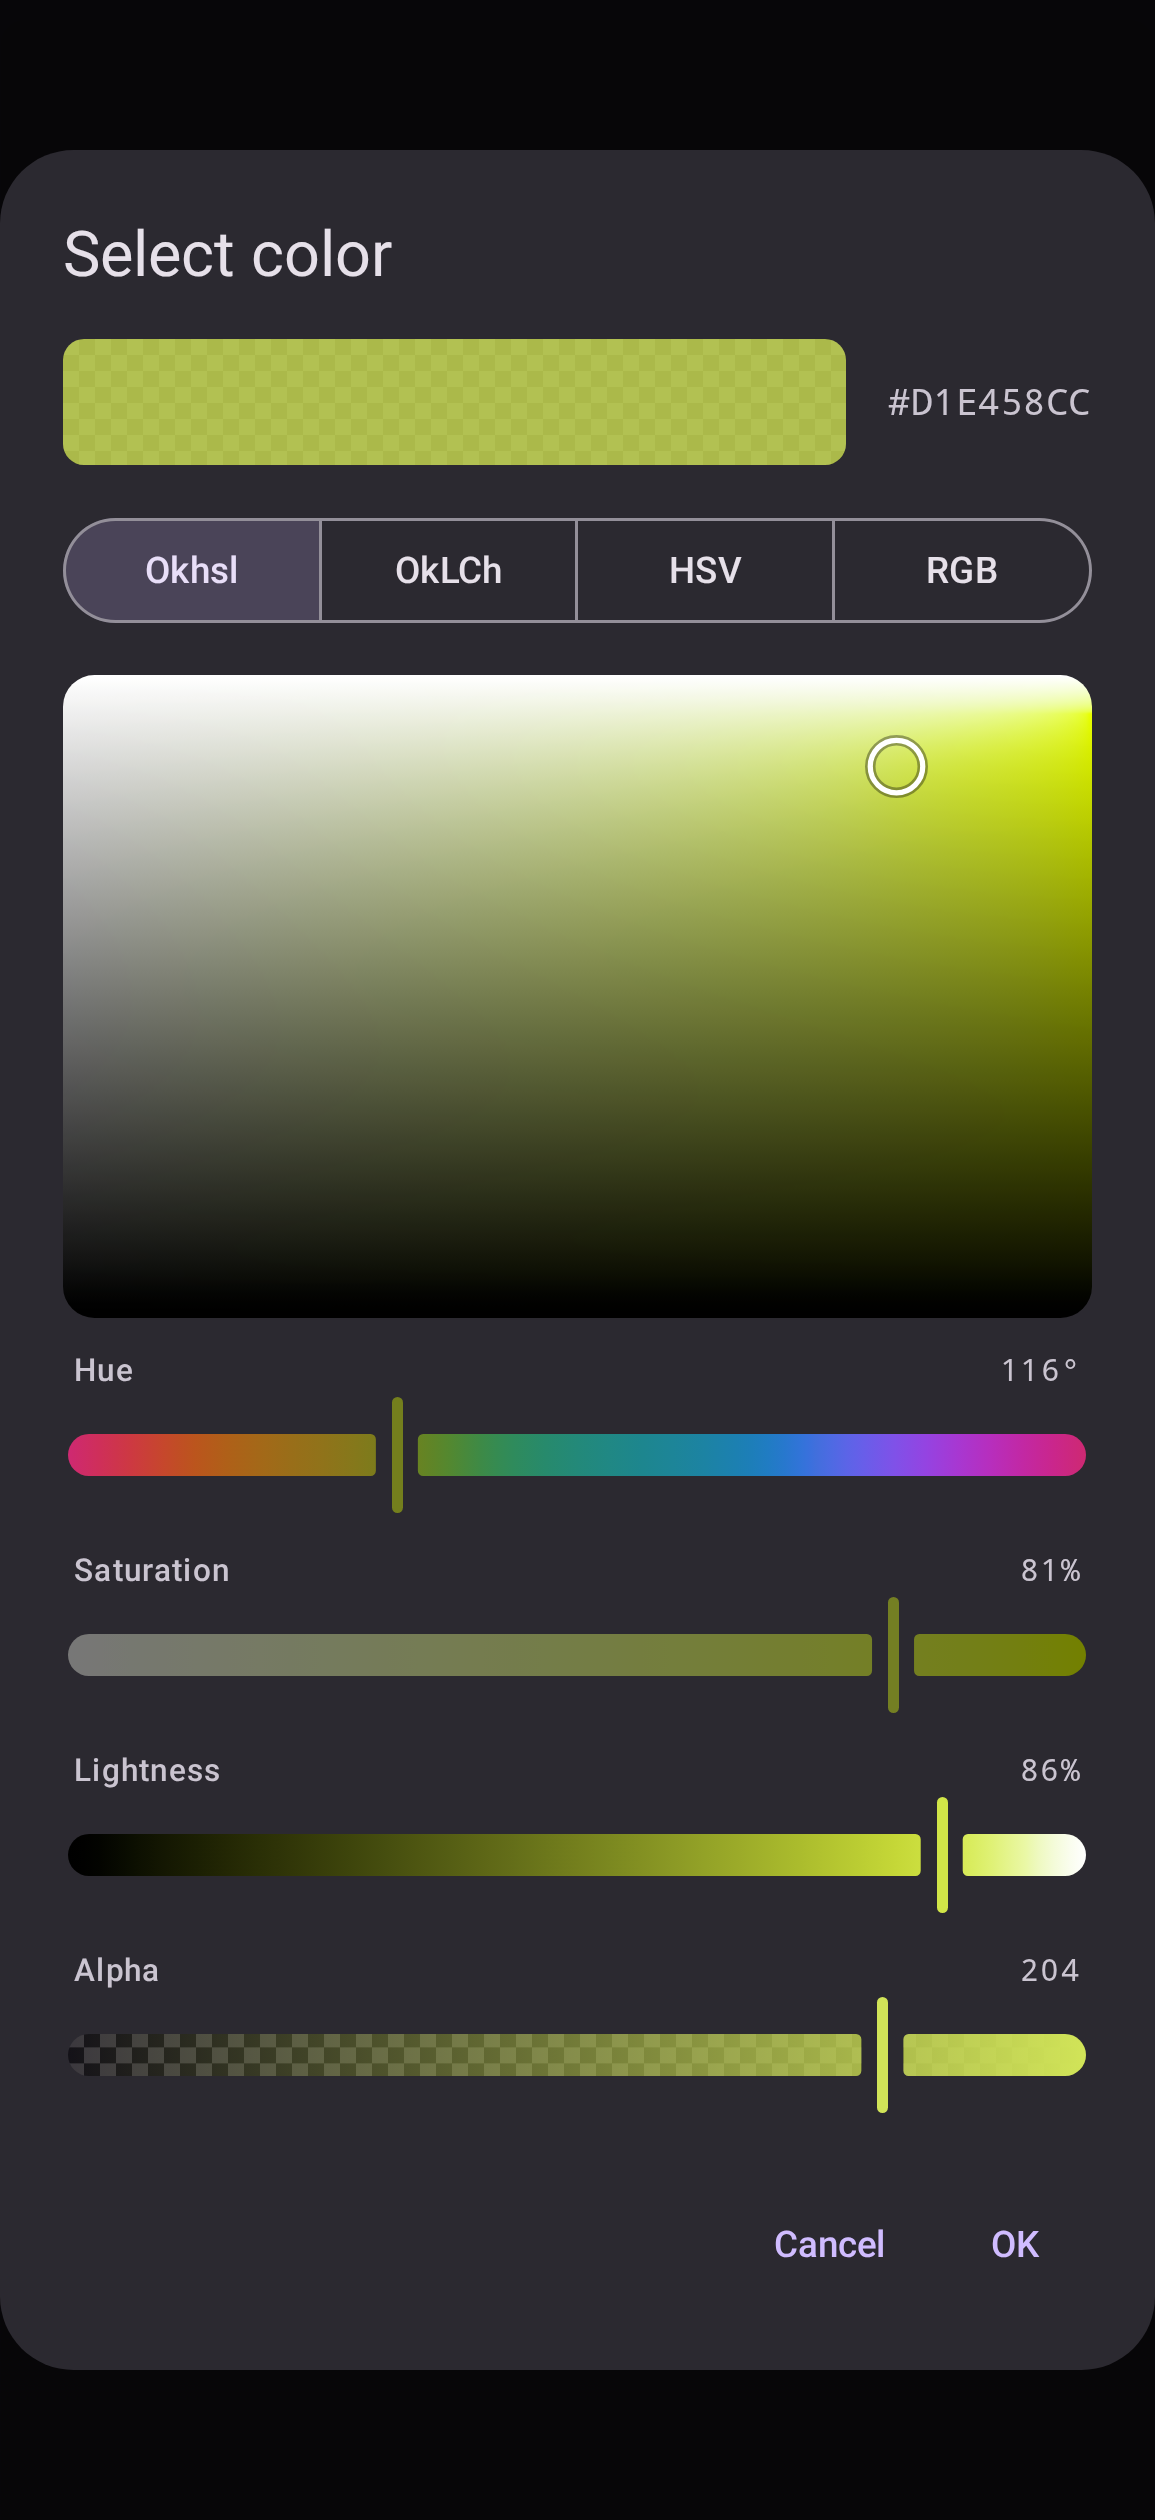
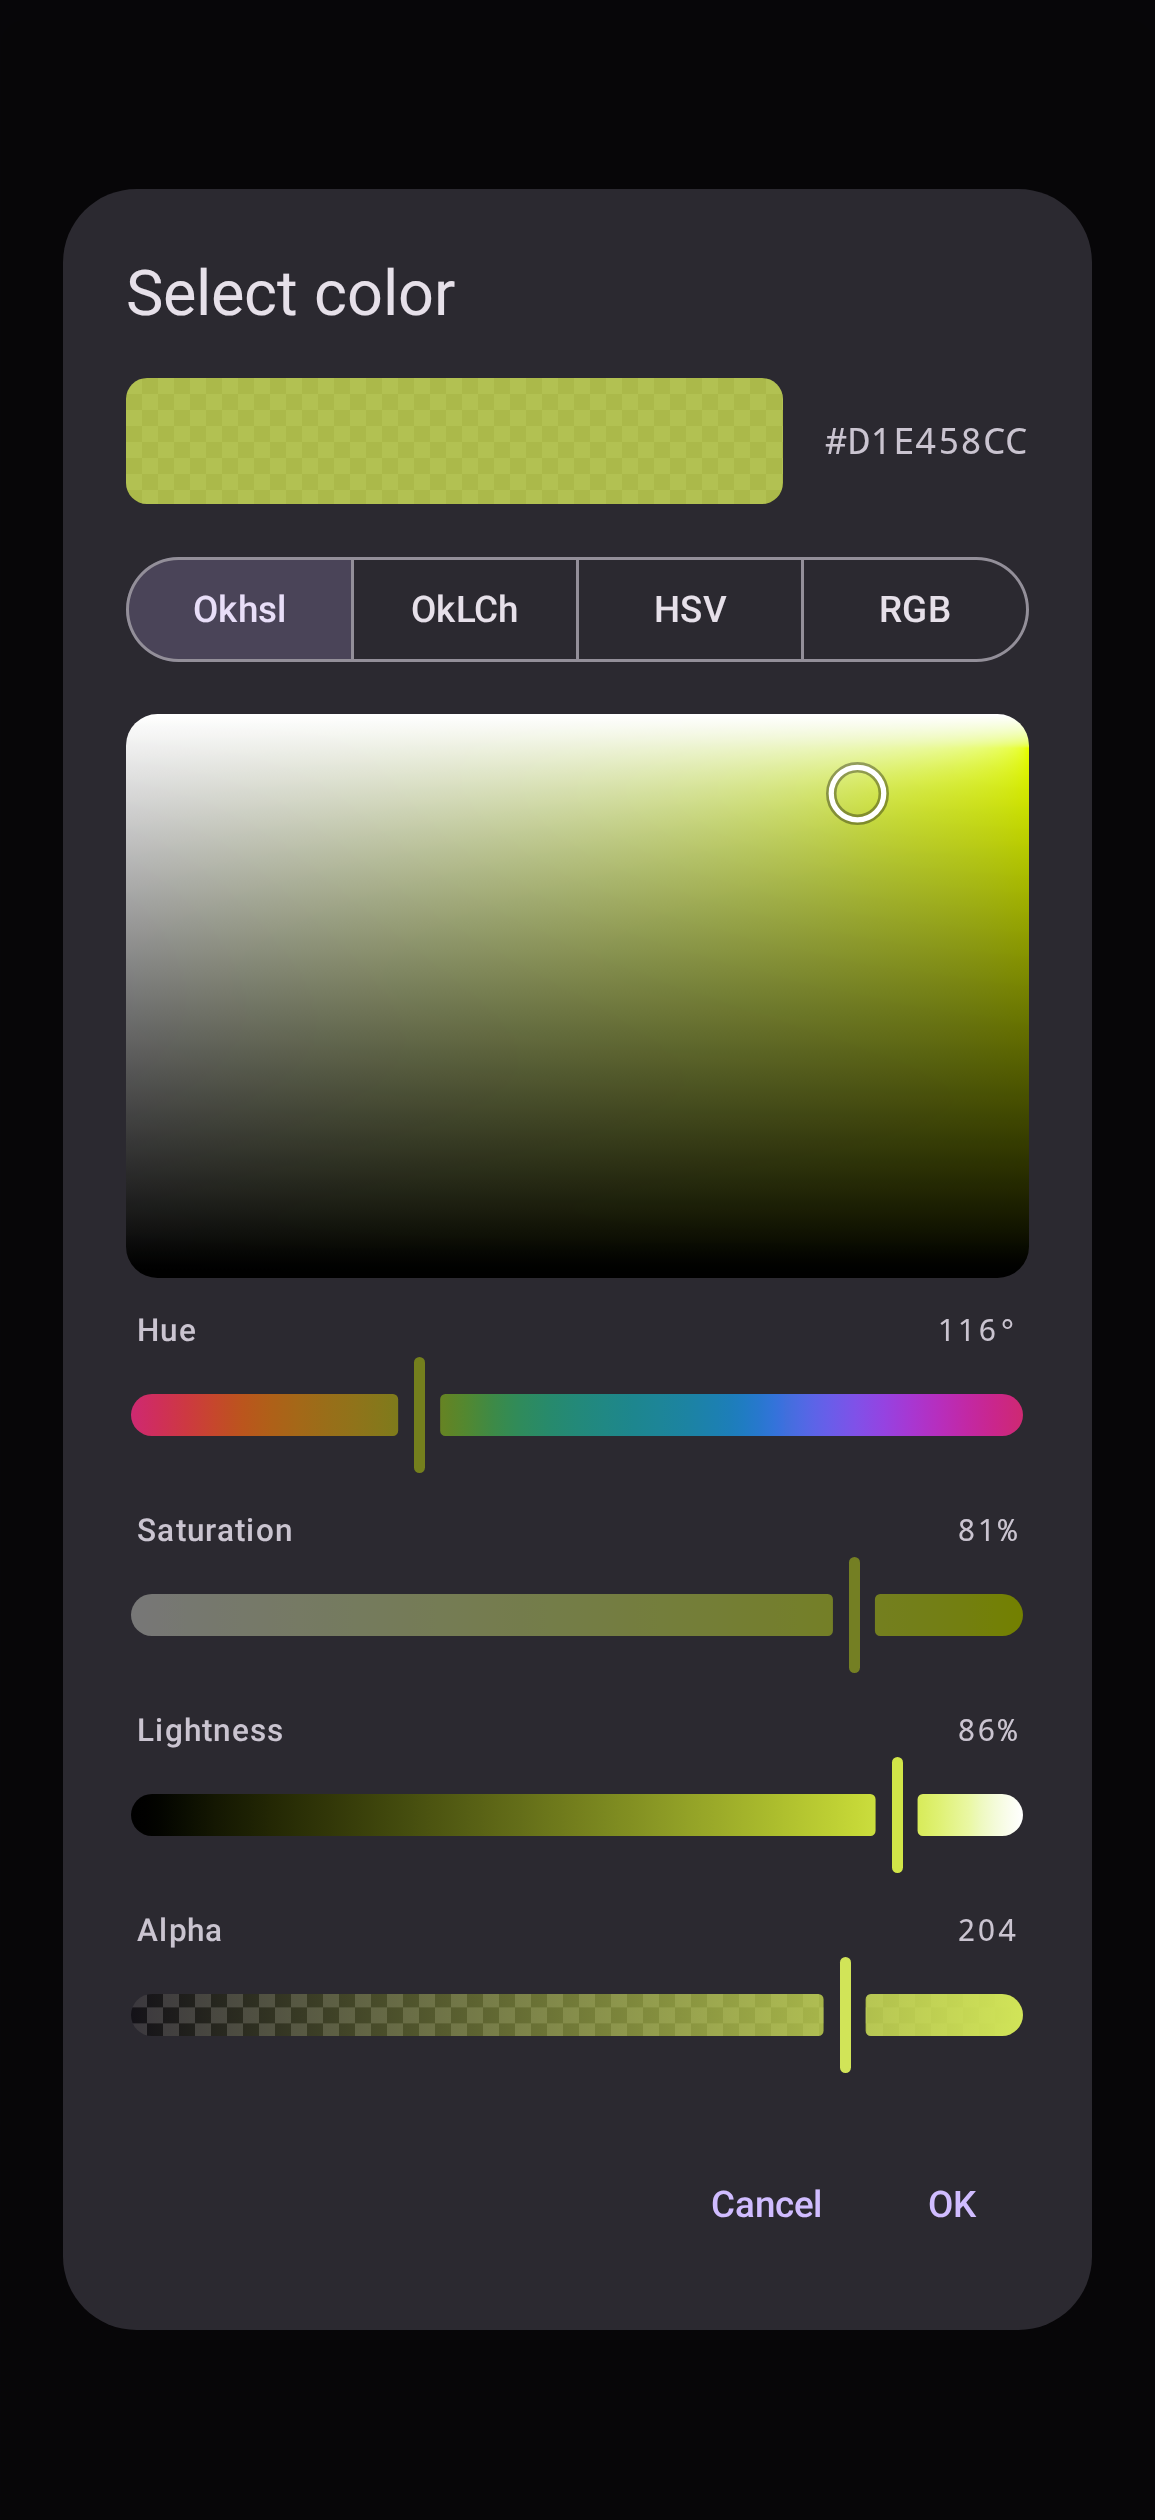
Give the portrait dialog screenshot a phone's margins
The preview's dialog window runs edge to edge, so the screenshot showed the dialog touching both sides of the screen, and GitHub drew the portrait image across the whole README column. The preview insets the dialog 24 dp a side, as a phone's dialog window does, and the README and the docs page show it 360 px wide.

diff --git a/screenshot-tests/src/screenshotTest/kotlin/codes/side/colorpicker/screenshot/ColorPickerPreviews.kt b/screenshot-tests/src/screenshotTest/kotlin/codes/side/colorpicker/screenshot/ColorPickerPreviews.kt
@@ -279,11 +279,18 @@ fun OkhsvPlanePreview() = Frame {
     ChannelSlider(state, Okhsv.H)
 }
 
+// A phone's dialog window keeps the dialog clear of the screen's edges. The preview's window runs edge to edge, so
+// the margin is given here.
 @PreviewTest
 @Preview(name = "Dialog", widthDp = 440, heightDp = 960)
 @Composable
 fun DialogPreview() = Frame {
-    ColorPickerDialog(initialValue = Seed.withAlpha(0.8), onValueSelected = {}, onDismissRequest = {})
+    ColorPickerDialog(
+        initialValue = Seed.withAlpha(0.8),
+        onValueSelected = {},
+        onDismissRequest = {},
+        modifier = Modifier.padding(horizontal = 24.dp),
+    )
 }
 
 // A landscape tablet: too short to stack the picker, and wide enough to put the plane beside the sliders. A

diff --git a/README.md b/README.md
@@ -535,7 +535,7 @@ ColorPickerDialog(
 )
 ```
 
-![Color picker dialog](docs/images/dialog.png)
+<img src="docs/images/dialog.png" alt="Color picker dialog" width="360">
 
 Switching space redraws the color without converting it. Confirming returns exactly the initial
 value if nothing was edited, or if the original half of the swatch was pressed to restore it, so an

diff --git a/docs/index.md b/docs/index.md
@@ -535,7 +535,7 @@ ColorPickerDialog(
 )
 ```
 
-![Color picker dialog](images/dialog.png)
+<img src="images/dialog.png" alt="Color picker dialog" width="360">
 
 Switching space redraws the color without converting it. Confirming returns exactly the initial
 value if nothing was edited, or if the original half of the swatch was pressed to restore it, so an
